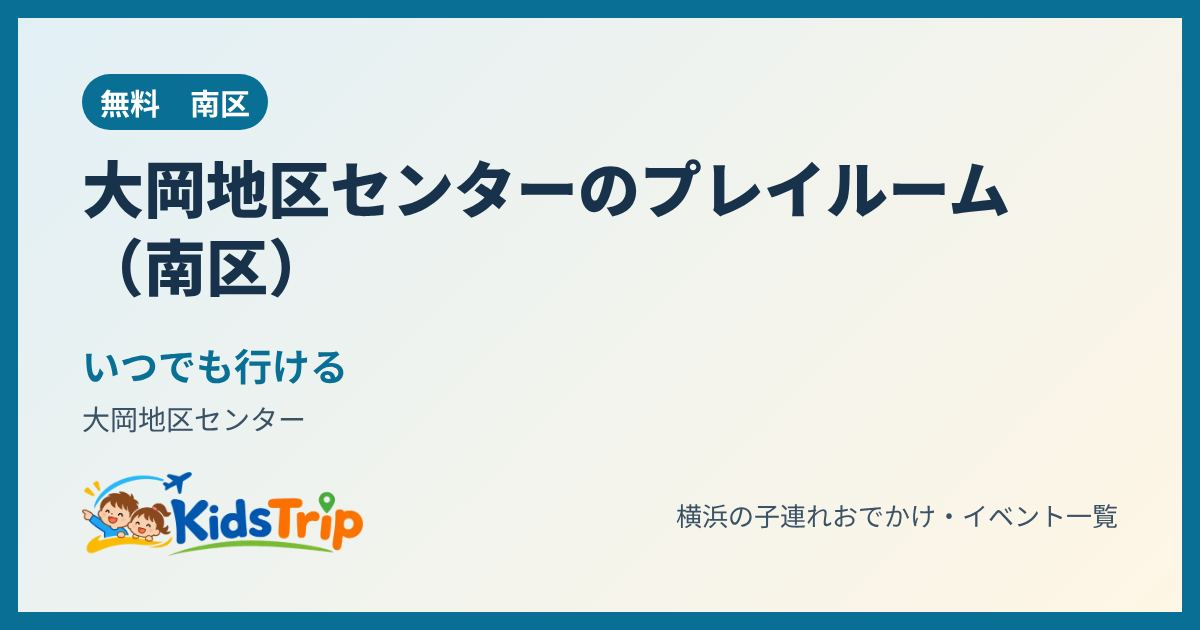
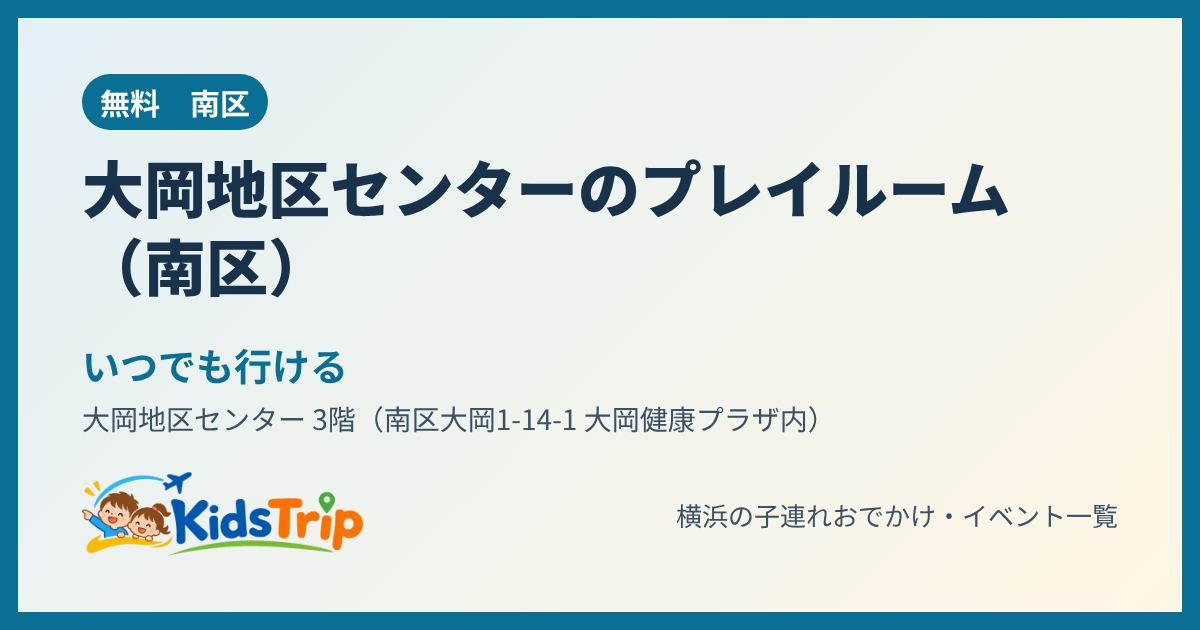
南区：大岡地区センターを公式で更新（3階・授乳スペース・おむつ交換台・駐車場）、子ども向けサークル2件
Claude-Session: https://claude.ai/code/session_014AtJ2fHfJAqHs7WQwJHXLv

Changed region(s): [[0.2467, 0.6333, 0.6783, 0.6937]]

diff --git a/event/n1wfiq/index.html b/event/n1wfiq/index.html
@@ -4,12 +4,12 @@
 <meta charset="utf-8">
 <meta name="viewport" content="width=device-width, initial-scale=1">
 <title>大岡地区センターのプレイルーム（南区）（南区）｜横浜の子連れイベント｜KidsTrip</title>
-<meta name="description" content="会期 毎月第3月曜（祝日なら翌日）・12/28〜1/4以外は開館　大岡地区センター。地区センターの中にある、未就学児と保護者向けの無料のプレイルーム。2024年度にリニューアルされた部屋のひとつ。">
+<meta name="description" content="会期 毎月第3月曜（祝日なら翌日）・12/28〜1/4以外は開館　大岡地区センター 3階（南区大岡1-14-1 大岡健康プラザ内）。3階にある乳幼児の遊び場（約44.7㎡・定員15人ほど）で、遊具がある。2024年度にリニューアルされた部屋">
 <link rel="canonical" href="https://kidstrip.jp/event/n1wfiq/">
 <meta property="og:type" content="article">
 <meta property="og:site_name" content="KidsTrip">
 <meta property="og:title" content="大岡地区センターのプレイルーム（南区）（南区）｜横浜の子連れイベント｜KidsTrip">
-<meta property="og:description" content="会期 毎月第3月曜（祝日なら翌日）・12/28〜1/4以外は開館　大岡地区センター。地区センターの中にある、未就学児と保護者向けの無料のプレイルーム。2024年度にリニューアルされた部屋のひとつ。">
+<meta property="og:description" content="会期 毎月第3月曜（祝日なら翌日）・12/28〜1/4以外は開館　大岡地区センター 3階（南区大岡1-14-1 大岡健康プラザ内）。3階にある乳幼児の遊び場（約44.7㎡・定員15人ほど）で、遊具がある。2024年度にリニューアルされた部屋">
 <meta property="og:url" content="https://kidstrip.jp/event/n1wfiq/">
 <meta property="og:image" content="https://kidstrip.jp/og/n1wfiq.jpg">
 <meta property="og:image:width" content="1200">
@@ -19,7 +19,7 @@
 <link rel="icon" href="../../img/favicon.png">
 <link rel="apple-touch-icon" href="../../img/apple-touch-icon.png">
 <script type="application/ld+json">{"@context": "https://schema.org", "@type": "BreadcrumbList", "itemListElement": [{"@type": "ListItem", "position": 1, "name": "トップ", "item": "https://kidstrip.jp/"}, {"@type": "ListItem", "position": 2, "name": "イベント", "item": "https://kidstrip.jp/"}, {"@type": "ListItem", "position": 3, "name": "大岡地区センターのプレイルーム（南区）"}]}</script>
-<script type="application/ld+json">{"@context": "https://schema.org", "@type": "TouristAttraction", "name": "大岡地区センターのプレイルーム（南区）", "description": "地区センターの中にある、未就学児と保護者向けの無料のプレイルーム。2024年度にリニューアルされた部屋のひとつ。", "url": "https://kidstrip.jp/event/n1wfiq/", "image": ["https://kidstrip.jp/og/n1wfiq.jpg"], "address": {"@type": "PostalAddress", "streetAddress": "大岡地区センター", "addressLocality": "横浜市南区", "addressRegion": "神奈川県", "addressCountry": "JP"}, "isAccessibleForFree": true, "publicAccess": true, "touristType": "子ども連れの家族", "inLanguage": "ja"}</script>
+<script type="application/ld+json">{"@context": "https://schema.org", "@type": "TouristAttraction", "name": "大岡地区センターのプレイルーム（南区）", "description": "3階にある乳幼児の遊び場（約44.7㎡・定員15人ほど）で、遊具がある。2024年度にリニューアルされた部屋のひとつ。館内に授乳スペースとおむつ交換台がある。", "url": "https://kidstrip.jp/event/n1wfiq/", "image": ["https://kidstrip.jp/og/n1wfiq.jpg"], "address": {"@type": "PostalAddress", "streetAddress": "大岡地区センター 3階（南区大岡1-14-1 大岡健康プラザ内）", "addressLocality": "横浜市南区", "addressRegion": "神奈川県", "addressCountry": "JP"}, "isAccessibleForFree": true, "publicAccess": true, "touristType": "子ども連れの家族", "inLanguage": "ja"}</script>
 <style>
 :root{--paper:#f8fafc;--card:#fff;--ink:#18222e;--muted:#5b6875;--line:#dde3e9;--accent:#0a6f95;--accent-soft:#e2f0f6;--ok:#2e7d4f;--bad:#b3372b}
 *{box-sizing:border-box}body{margin:0;background:var(--paper);color:var(--ink);font-family:"Zen Kaku Gothic New","Hiragino Kaku Gothic ProN","Yu Gothic","Meiryo",sans-serif;line-height:1.7}
@@ -46,23 +46,23 @@ footer{margin:28px 0 8px;font-size:12px;color:var(--muted)}
 <p class="crumb"><a href="/">トップ</a> ＞ <a href="/">イベント</a> ＞ 大岡地区センターのプレイルーム（南区）</p>
 <article class="card">
 <h1>大岡地区センターのプレイルーム（南区）</h1>
-<ul class="chips"><li>無料</li><li>0〜6歳と保護者</li><li>屋内</li><li>雨でもOK</li></ul>
+<ul class="chips"><li>無料</li><li>乳幼児と保護者</li><li>屋内</li><li>雨でもOK</li></ul>
 <table class="info">
 <tr><th>日にち</th><td>会期 毎月第3月曜（祝日なら翌日）・12/28〜1/4以外は開館</td></tr>
 <tr><th>時間</th><td>月〜土 9:00〜21:00／日・祝 9:00〜17:00（施設の開館時間）</td></tr>
-<tr><th>場所</th><td>南区・大岡地区センター</td></tr>
+<tr><th>場所</th><td>南区・大岡地区センター 3階（南区大岡1-14-1 大岡健康プラザ内）</td></tr>
 <tr><th>料金</th><td>無料</td></tr>
-<tr><th>対象</th><td>0〜6歳と保護者</td></tr>
+<tr><th>対象</th><td>乳幼児と保護者</td></tr>
 <tr><th>予約</th><td>予約不要</td></tr>
 <tr><th>雨の日</th><td>雨でもOK（屋内なので雨でもOK）</td></tr>
 </table>
-<p class="sum">地区センターの中にある、未就学児と保護者向けの無料のプレイルーム。2024年度にリニューアルされた部屋のひとつ。</p>
-<p class="tip">💡 休館日は毎月第3月曜（祝日なら翌日）・12/28〜1/4。プレイルームだけの利用時間は公式ページに記載がないので、電話（045-743-2411）で確かめると安心。</p>
-<p class="small">情報の時点：2026年11月13日　出典：横浜市（プレイルーム一覧）・大岡地区センター 公式（2026年11月）</p>
-<div class="btns"><a class="btn main" data-act="official" href="https://minami-rsk.sakura.ne.jp/oooka/" target="_blank" rel="noopener">公式ページで確認</a>
+<p class="sum">3階にある乳幼児の遊び場（約44.7㎡・定員15人ほど）で、遊具がある。2024年度にリニューアルされた部屋のひとつ。館内に授乳スペースとおむつ交換台がある。</p>
+<p class="tip">💡 地下鉄の弘明寺駅から歩いて約3分（京急の弘明寺駅からは約15分）。専用の駐車場はなく、複合施設の有料駐車場を使う。小学生以下だけでの利用は17時まで。プレイルームの利用時間は電話（045-743-2411）で確かめると安心。</p>
+<p class="small">情報の時点：2026年11月16日　出典：大岡地区センター公式（施設案内・アクセス・トップ）／横浜市（プレイルーム一覧）</p>
+<div class="btns"><a class="btn main" data-act="official" href="https://minami-rsk.sakura.ne.jp/oooka/about/" target="_blank" rel="noopener">公式ページで確認</a>
 <a class="btn" href="/?e=n1wfiq">一覧で見る（行き方・近くのごはん）</a>
 <button type="button" class="btn" data-share="1">🔗 リンクを送る・コピー</button>
-<a class="btn line" href="https://line.me/R/share?text=%E3%80%90%E5%A4%A7%E5%B2%A1%E5%9C%B0%E5%8C%BA%E3%82%BB%E3%83%B3%E3%82%BF%E3%83%BC%E3%81%AE%E3%83%97%E3%83%AC%E3%82%A4%E3%83%AB%E3%83%BC%E3%83%A0%EF%BC%88%E5%8D%97%E5%8C%BA%EF%BC%89%E3%80%91%0A%E4%BC%9A%E6%9C%9F%20%E6%AF%8E%E6%9C%88%E7%AC%AC3%E6%9C%88%E6%9B%9C%EF%BC%88%E7%A5%9D%E6%97%A5%E3%81%AA%E3%82%89%E7%BF%8C%E6%97%A5%EF%BC%89%E3%83%BB12/28%E3%80%9C1/4%E4%BB%A5%E5%A4%96%E3%81%AF%E9%96%8B%E9%A4%A8%E3%80%80%E6%9C%88%E3%80%9C%E5%9C%9F%209%3A00%E3%80%9C21%3A00%EF%BC%8F%E6%97%A5%E3%83%BB%E7%A5%9D%209%3A00%E3%80%9C17%3A00%EF%BC%88%E6%96%BD%E8%A8%AD%E3%81%AE%E9%96%8B%E9%A4%A8%E6%99%82%E9%96%93%EF%BC%89%0A%E5%A0%B4%E6%89%80%EF%BC%9A%E5%8D%97%E5%8C%BA%E3%83%BB%E5%A4%A7%E5%B2%A1%E5%9C%B0%E5%8C%BA%E3%82%BB%E3%83%B3%E3%82%BF%E3%83%BC%0Ahttps%3A//kidstrip.jp/event/n1wfiq/" target="_blank" rel="noopener">LINEで送る</a></div>
+<a class="btn line" href="https://line.me/R/share?text=%E3%80%90%E5%A4%A7%E5%B2%A1%E5%9C%B0%E5%8C%BA%E3%82%BB%E3%83%B3%E3%82%BF%E3%83%BC%E3%81%AE%E3%83%97%E3%83%AC%E3%82%A4%E3%83%AB%E3%83%BC%E3%83%A0%EF%BC%88%E5%8D%97%E5%8C%BA%EF%BC%89%E3%80%91%0A%E4%BC%9A%E6%9C%9F%20%E6%AF%8E%E6%9C%88%E7%AC%AC3%E6%9C%88%E6%9B%9C%EF%BC%88%E7%A5%9D%E6%97%A5%E3%81%AA%E3%82%89%E7%BF%8C%E6%97%A5%EF%BC%89%E3%83%BB12/28%E3%80%9C1/4%E4%BB%A5%E5%A4%96%E3%81%AF%E9%96%8B%E9%A4%A8%E3%80%80%E6%9C%88%E3%80%9C%E5%9C%9F%209%3A00%E3%80%9C21%3A00%EF%BC%8F%E6%97%A5%E3%83%BB%E7%A5%9D%209%3A00%E3%80%9C17%3A00%EF%BC%88%E6%96%BD%E8%A8%AD%E3%81%AE%E9%96%8B%E9%A4%A8%E6%99%82%E9%96%93%EF%BC%89%0A%E5%A0%B4%E6%89%80%EF%BC%9A%E5%8D%97%E5%8C%BA%E3%83%BB%E5%A4%A7%E5%B2%A1%E5%9C%B0%E5%8C%BA%E3%82%BB%E3%83%B3%E3%82%BF%E3%83%BC%203%E9%9A%8E%EF%BC%88%E5%8D%97%E5%8C%BA%E5%A4%A7%E5%B2%A11-14-1%20%E5%A4%A7%E5%B2%A1%E5%81%A5%E5%BA%B7%E3%83%97%E3%83%A9%E3%82%B6%E5%86%85%EF%BC%89%0Ahttps%3A//kidstrip.jp/event/n1wfiq/" target="_blank" rel="noopener">LINEで送る</a></div>
 </article>
 
 

diff --git a/index.html b/index.html
@@ -2308,7 +2308,7 @@ EVENTS.push({"t": "本牧地区センターのプレイルーム（中区）", "
 EVENTS.push({"t": "西地区センターのプレイルーム（西区）", "days": [], "time": "部屋の利用は9:00〜21:00（日・祝の閉館時間は公式で確認）", "ward": "西区", "venue": "西地区センター（西区岡野1-6-41）", "price": "free", "priceText": "無料", "place": "屋内", "rain": "ok", "rainText": "屋内なので雨でもOK", "resv": false, "resvText": "予約不要", "age": [0, 6], "ageText": "0〜6歳と保護者", "kind": "ongoing", "start": 600, "freeplay": true, "only": [], "period": "ふだん開いている（休館日は要確認）", "sum": "1階の図書コーナーのとなりにある、未就学児と保護者向けの無料のプレイルーム。床はマット敷きで、くぐって遊べるトンネルや絵本・おもちゃの棚がある。", "tip": "受付で入館表を書いてから使う。同じ1階のエレベーター横に誰でもトイレあり。休館日やプレイルームの時間は電話（045-314-7734）で確かめると安心。", "url": "https://nishi-cc.com/center", "src": "横浜市（プレイルーム一覧）・西地区センター 公式（2026年11月・画面の情報）", "asof": "2026年11月13日"});
 EVENTS.push({"t": "西谷地区センターのプレイルーム（保土ケ谷区）", "days": [], "time": "地区センターの開館時間内（月〜土 9:00〜21:00／日・祝 9:00〜17:00。プレイルームの時間は公式で確認）", "ward": "保土ケ谷区", "venue": "西谷地区センター 1階（保土ケ谷区西谷3-15-1）", "price": "free", "priceText": "無料", "place": "屋内", "rain": "ok", "rainText": "屋内なので雨でもOK", "resv": false, "resvText": "予約不要（受付簿に○を付ける）", "age": [0, 6], "ageText": "赤ちゃん〜就学前と保護者", "kind": "ongoing", "start": 600, "freeplay": true, "only": [], "period": "毎月第3月曜（祝日なら翌日以降の平日）以外は開館", "sum": "赤ちゃんから就学前の子が遊べる1階のプレイルーム（無料）。ままごと・積み木・ブロック・パズルがあり、ベビーベッドと授乳コーナーもある。", "tip": "必ず保護者と一緒に。毎週木曜10:00〜12:00は子育て相談（先輩ママの子育て支援者・無料。予約が要るかは区のページで確認を）。飲食は飲食コーナーで。親子ヨガ・親子リトミックなどの講座もある。", "url": "https://nishiya.hodogaya-kumin.com/smartphone/facility.html", "src": "西谷地区センター公式（施設案内・個人利用・定例イベント）", "asof": "2026年11月16日"});
 EVENTS.push({"t": "白山地区センターのプレイルーム（緑区）", "days": [], "time": "月〜土 〜21:00／日・祝 〜17:00（施設の開館時間）", "ward": "緑区", "venue": "白山地区センター", "price": "free", "priceText": "無料", "place": "屋内", "rain": "ok", "rainText": "屋内なので雨でもOK", "resv": false, "resvText": "予約不要", "age": [0, 6], "ageText": "0〜6歳と保護者", "kind": "ongoing", "start": 600, "freeplay": true, "only": [], "period": "ふだん開いている（休館日は要確認）", "sum": "地区センターの中にある、未就学児と保護者向けの無料のプレイルーム。2024年度にリニューアルされた部屋のひとつ。", "tip": "休館日は公式ページで確かめてから。プレイルームだけの利用時間は公式ページに記載がないので、電話（045-935-0326）で確かめると安心。", "url": "http://www.hakusanc.com/", "src": "横浜市（プレイルーム一覧）・白山地区センター 公式（2026年11月）", "asof": "2026年11月13日"});
-EVENTS.push({"t": "大岡地区センターのプレイルーム（南区）", "days": [], "time": "月〜土 9:00〜21:00／日・祝 9:00〜17:00（施設の開館時間）", "ward": "南区", "venue": "大岡地区センター", "price": "free", "priceText": "無料", "place": "屋内", "rain": "ok", "rainText": "屋内なので雨でもOK", "resv": false, "resvText": "予約不要", "age": [0, 6], "ageText": "0〜6歳と保護者", "kind": "ongoing", "start": 600, "freeplay": true, "only": [], "period": "毎月第3月曜（祝日なら翌日）・12/28〜1/4以外は開館", "sum": "地区センターの中にある、未就学児と保護者向けの無料のプレイルーム。2024年度にリニューアルされた部屋のひとつ。", "tip": "休館日は毎月第3月曜（祝日なら翌日）・12/28〜1/4。プレイルームだけの利用時間は公式ページに記載がないので、電話（045-743-2411）で確かめると安心。", "url": "https://minami-rsk.sakura.ne.jp/oooka/", "src": "横浜市（プレイルーム一覧）・大岡地区センター 公式（2026年11月）", "asof": "2026年11月13日"});
+EVENTS.push({"t": "大岡地区センターのプレイルーム（南区）", "days": [], "time": "月〜土 9:00〜21:00／日・祝 9:00〜17:00（施設の開館時間）", "ward": "南区", "venue": "大岡地区センター 3階（南区大岡1-14-1 大岡健康プラザ内）", "price": "free", "priceText": "無料", "place": "屋内", "rain": "ok", "rainText": "屋内なので雨でもOK", "resv": false, "resvText": "予約不要", "age": [0, 6], "ageText": "乳幼児と保護者", "kind": "ongoing", "start": 600, "freeplay": true, "only": [], "period": "毎月第3月曜（祝日なら翌日）・12/28〜1/4以外は開館", "sum": "3階にある乳幼児の遊び場（約44.7㎡・定員15人ほど）で、遊具がある。2024年度にリニューアルされた部屋のひとつ。館内に授乳スペースとおむつ交換台がある。", "tip": "地下鉄の弘明寺駅から歩いて約3分（京急の弘明寺駅からは約15分）。専用の駐車場はなく、複合施設の有料駐車場を使う。小学生以下だけでの利用は17時まで。プレイルームの利用時間は電話（045-743-2411）で確かめると安心。", "url": "https://minami-rsk.sakura.ne.jp/oooka/about/", "src": "大岡地区センター公式（施設案内・アクセス・トップ）／横浜市（プレイルーム一覧）", "asof": "2026年11月16日", "circles": [{"n": "南空手クラブ", "what": "空手（体験・見学あり）", "when": "月4回 水曜 15:30〜16:30", "age": "3歳以上"}, {"n": "若宮詩吟の会", "what": "詩吟（小・中学生も親しめるよう工夫）", "when": "火曜 18:00〜20:30", "age": "小学生・中学生も"}], "circlesUrl": "https://minami-rsk.sakura.ne.jp/oooka/category/circle/", "circlesAsof": "2026年11月16日（サークル紹介の全3ページを確認）"});
 EVENTS.push({"t": "理科実験（三菱みなとみらい技術館）", "days": ["11/21", "11/22", "11/23", "11/28"], "time": "11/21〜23は10:40〜11:00と13:40〜14:00、11/28は10:40〜11:00のみ", "ward": "西区", "venue": "三菱みなとみらい技術館", "price": "admission", "priceText": "イベントの参加は無料（館内で開催。入館料：大人500円・中高生300円・小学生200円・未就学児は無料）", "place": "屋内", "rain": "ok", "rainText": "屋内なので雨でもOK", "resv": false, "resvText": "予約不要・自由参加（先着50名）", "age": [3, 12], "ageText": "未就学児〜大人（未就学児は保護者と一緒に）", "kind": "limited", "start": 640, "sum": "スタッフが家族向けの理科実験を見せてくれる20分ほどのイベント。実験の中身は当日のお楽しみ。", "tip": "2階の実験ワゴンに集合。定員50名なので少し前に行くと安心。休館は火・水曜。", "url": "https://www.mhi.com/jp/company/museum/minatomirai/event/rikajikken.html", "src": "三菱みなとみらい技術館 公式・みなとみらい21公式サイト（11月の日程）", "asof": "2026年11月16日"});
 EVENTS.push({"t": "のりものペーパークラフト工作（三菱みなとみらい技術館）", "days": ["11/29"], "time": "①10:00〜11:30 ②13:00〜15:30", "ward": "西区", "venue": "三菱みなとみらい技術館", "price": "admission", "priceText": "イベントの参加は無料（館内で開催。入館料：大人500円・中高生300円・小学生200円・未就学児は無料）", "place": "屋内", "rain": "ok", "rainText": "屋内なので雨でもOK", "resv": false, "resvText": "予約不要・当日先着順（各回200名）", "age": [3, 12], "ageText": "未就学児〜大人（未就学児は保護者と一緒に）", "kind": "limited", "start": 600, "sum": "新交通システム（AGT）などの乗り物をペーパークラフトで作る工作。1人10〜30分くらい。", "tip": "2階「陸ゾーン」に集合。乗り物好きの子に。", "url": "https://www.mhi.com/jp/company/museum/minatomirai/event/202605papercraft.html", "src": "三菱みなとみらい技術館 公式", "asof": "2026年11月16日"});
 // ---- イベントごとのリンク（https://kidstrip.jp/?e=ID）とお気に入り ----
